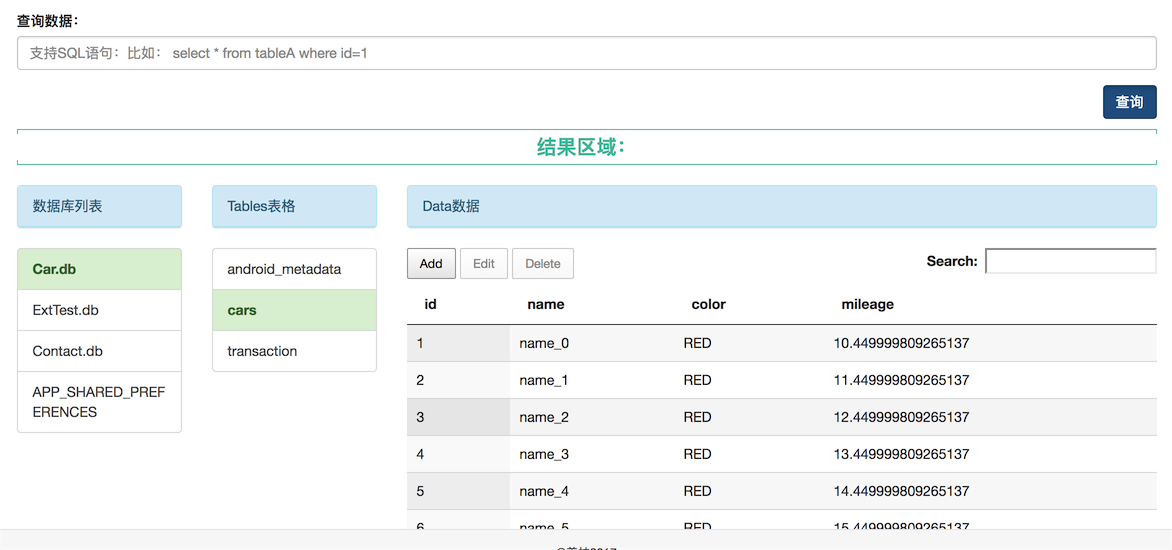
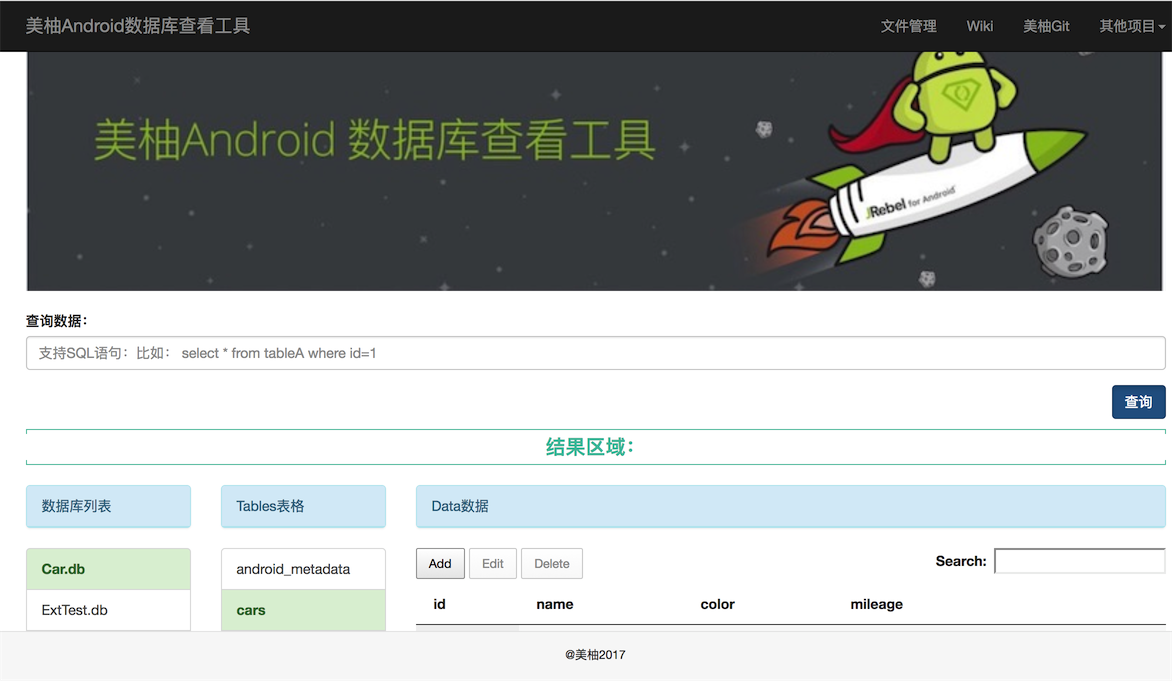
1. readme update;

diff --git a/README.md b/README.md
@@ -45,8 +45,8 @@ debug {
 ### 截图
 
 ### 查看数据
-<img src=/image/query2.png >
 <img src=/image/query.png >
+<img src=/image/rocket.png >
 
 ### 编辑数据。
 <img src=/image/edit.png >
